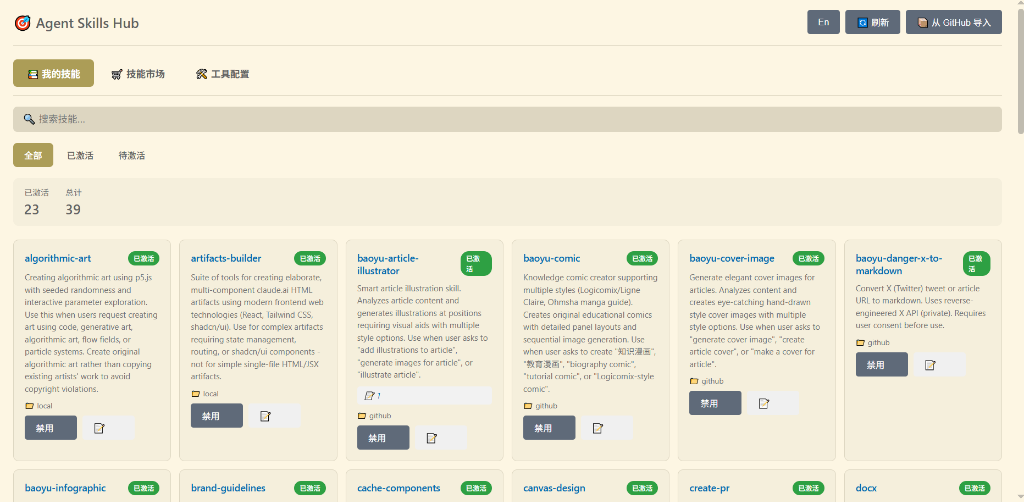
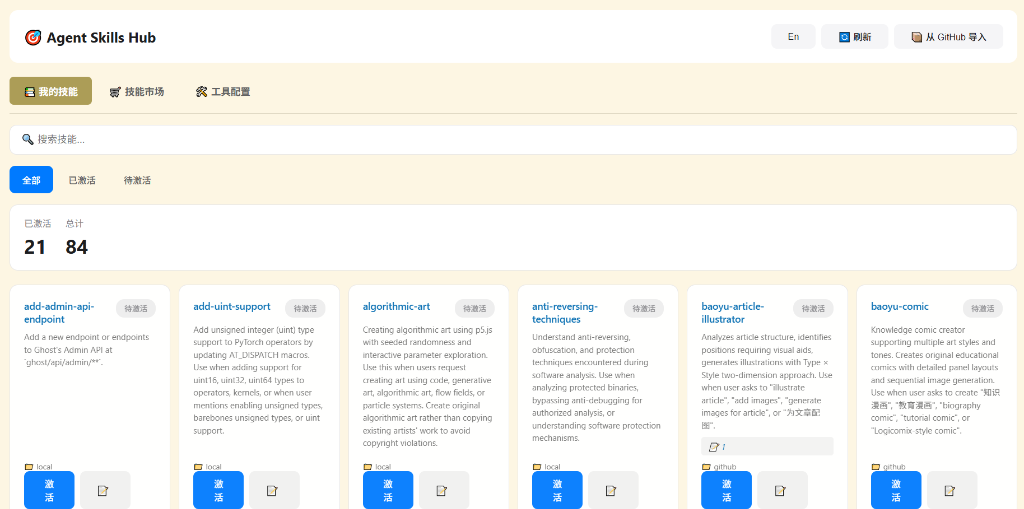
docs: 更新 README 预览截图为最新 UI (v0.1.10)

diff --git a/README.md b/README.md
@@ -9,7 +9,7 @@
 </p>
 
 <p align="center">
-  <img src="https://img.shields.io/badge/version-0.1.7-blue.svg" alt="Version">
+  <img src="https://img.shields.io/badge/version-0.1.10-blue.svg" alt="Version">
   <img src="https://img.shields.io/badge/design-Apple_Style-007aff.svg" alt="Apple Style UI">
   <img src="https://img.shields.io/badge/language-TypeScript-blue.svg" alt="TypeScript">
   <img src="https://img.shields.io/badge/license-MIT-green.svg" alt="License">
